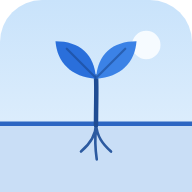
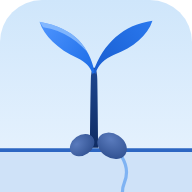
Neue Anfangspflanze: Keimling nach Vorlage
Der Baum beginnt jetzt als Keimling mit zwei Samenhälften am Boden,
dunklem Stängel, zwei Blättern mit Glanz und feiner hellblauer Wurzel.
Er wächst in den ersten Lerntagen etwas und wiegt sich im Wind; ab
Tag 4 verzweigt er sich zum jungen Baum. Beim ersten Start geht der
Same sichtbar auf. Auch das App-Symbol zeigt den neuen Keimling.

Claude-Session: https://claude.ai/code/session_012W7o2pM2ecKdrwSW7EVPoB

Changed region(s): [[0.0, 0.0938, 1.0, 1.0]]

diff --git a/js/tree.js b/js/tree.js
@@ -93,8 +93,25 @@ W.tree = (() => {
 
   // Geometrie von Krone und Wurzeln (ohne Zeichnen)
   const trunkWidth = G => 2.2 + 13 * clamp((G - 1) / 7, 0, 1);
+  // Keimling (die Anfangspflanze): zwei Samenhälften, Stängel, zwei Blätter, eine feine Wurzel.
+  // Gezeichnet in Bildkoordinaten der Vorlage (Stängelfuß bei 650/775), skaliert mit sc.
+  const SPROUT_MAX = 1.5;
+  function sproutGeom(G) {
+    const p = clamp((G - 0.3) / 0.25, 0, 1);                 // Aufgehen des Samens
+    const k = 0.85 + 0.15 * clamp((G - 0.55) / 0.45, 0, 1) + Math.max(0, G - 1) * 0.5;
+    return { p, e: ease(p), sc: 0.19 * k };
+  }
   function geometry(G, RG, T, droop) {
     const segs = [], tips = [], rsegs = [], box = { minY: GROUND - 40, minX: 200, maxX: 200, maxY: GROUND + 20, rootY: GROUND, treeY: GROUND };
+    if (G < SPROUT_MAX) {
+      const sp = sproutGeom(G);
+      box.treeY = GROUND - (775 - 375) * sp.sc * Math.max(0.25, sp.e);
+      box.minY = box.treeY - 8;
+      box.minX = 200 - 180 * sp.sc - 6; box.maxX = 200 + 190 * sp.sc + 6;
+      box.rootY = GROUND + (945 - 775) * sp.sc * Math.max(0.2, sp.p);
+      box.maxY = box.rootY;
+      return { segs, tips, rsegs, box, tw: 1.6, sprout: sp };
+    }
     const size = clamp(G / 8, 0, 1), tw = G >= 1 ? trunkWidth(G) : 1.6;
     if (G >= 1) branch(TREE, 200, GROUND, 0, 52 * (0.62 + 0.38 * size), tw, G, T, false, tips, segs, droop, box);
     const rs = 0.62 + 0.38 * clamp(RG / 7, 0, 1);
@@ -154,7 +171,7 @@ W.tree = (() => {
       const T = reduce || o.still ? 0 : time;
 
       // 1) Struktur berechnen
-      const { segs, tips, rsegs, box, tw } = geometry(G, RG, T, o.thirsty ? 0.18 : 0);
+      const { segs, tips, rsegs, box, tw, sprout } = geometry(G, RG, T, o.thirsty ? 0.18 : 0);
       const size = clamp(G / 8, 0, 1);
 
       // 2) Kamera: Baum und Wurzeln passen immer hinein
@@ -226,6 +243,7 @@ W.tree = (() => {
         ctx.beginPath(); ctx.moveTo(s.x, s.y); ctx.quadraticCurveTo(s.cx, s.cy, s.x2, s.y2); ctx.stroke();
       });
       ctx.globalAlpha = 1;
+      if (sprout) sproutRoot(sprout);
       if (rsegs.length) { // Wurzelansatz: Stamm geht nahtlos in die Wurzeln über
         ctx.fillStyle = C.root;
         ctx.beginPath(); ctx.ellipse(200, GROUND + tw * 0.25, tw * 0.75, tw * 0.55, 0, 0, 7); ctx.fill();
@@ -235,8 +253,8 @@ W.tree = (() => {
       ctx.strokeStyle = C.line; ctx.lineWidth = 4.5 * Math.max(0.6, u * 0.9);
       ctx.beginPath(); ctx.moveTo(v.x - 10, GROUND); ctx.lineTo(v.x + v.w + 10, GROUND); ctx.stroke();
 
-      // 8) Same oder Baum
-      if (G < 1) seedling(G);
+      // 8) Keimling oder Baum
+      if (sprout) sproutPlant(sprout, T);
       else {
         const leafPal = o.thirsty ? C.leafDry : C.leaf, puffPal = o.thirsty ? C.puffDry : C.puff;
         if (G >= 2) tips.forEach(tp => puffs(tp, puffPal, clamp((G - 2) / 1.2, 0, 1)));
@@ -292,17 +310,77 @@ W.tree = (() => {
       ctx.globalAlpha = 1;
     }
 
-    function seedling(G) {
-      ctx.save(); ctx.translate(200, GROUND); ctx.scale(1.6, 1.6); ctx.translate(-200, -GROUND);
-      ctx.fillStyle = '#7fb0ea'; ctx.strokeStyle = C.vein; ctx.lineWidth = 1.2;
-      ctx.beginPath(); ctx.ellipse(200, GROUND + 9, 7, 5, -0.4, 0, 7); ctx.fill(); ctx.stroke();
-      if (G > 0.5) {
-        const h = 2 + (G - 0.5) * 34;
-        ctx.strokeStyle = C.trunk[0]; ctx.lineWidth = 2;
-        ctx.beginPath(); ctx.moveTo(200, GROUND + 4); ctx.quadraticCurveTo(201, GROUND - h / 2, 200, GROUND - h); ctx.stroke();
-        leaf(200, GROUND - h, -0.9, 5 + h * 0.35, C.leaf[1]);
-        leaf(200, GROUND - h, 0.9, 5 + h * 0.35, C.leaf[0]);
-      }
+    // ---- Keimling nach Vorlage ----
+    function sproutSpace(sp) {
+      ctx.save();
+      ctx.translate(200, GROUND); ctx.scale(sp.sc, sp.sc); ctx.translate(-650, -775);
+    }
+    // feine hellblaue Wurzel aus der rechten Samenhälfte
+    function sproutRoot(sp) {
+      if (sp.p <= 0) return;
+      sproutSpace(sp);
+      ctx.translate(736, 798); ctx.scale(1, sp.p); ctx.translate(-736, -798);
+      ctx.lineCap = 'round';
+      ctx.strokeStyle = o.thirsty ? '#a9bdd4' : '#7fb3f3';
+      ctx.lineWidth = 8;
+      ctx.beginPath(); ctx.moveTo(736, 796);
+      ctx.bezierCurveTo(754, 826, 754, 852, 744, 876);
+      ctx.bezierCurveTo(734, 900, 738, 924, 748, 944); ctx.stroke();
+      ctx.restore();
+    }
+    function sproutPlant(sp, T) {
+      const dry = o.thirsty;
+      sproutSpace(sp);
+      // Stängel und Blätter wachsen aus den Samenhälften heraus und wiegen sich leicht im Wind
+      ctx.save();
+      ctx.translate(650, 722); ctx.scale(sp.e, sp.e); ctx.rotate(Math.sin(T * 1.1) * 0.025); ctx.translate(-650, -722);
+      // Stängel
+      const sg = ctx.createLinearGradient(0, 520, 0, 722);
+      sg.addColorStop(0, dry ? '#4d6585' : '#1d4690'); sg.addColorStop(1, dry ? '#3d536f' : '#0f2c63');
+      ctx.fillStyle = sg;
+      ctx.beginPath();
+      ctx.moveTo(637, 768); ctx.bezierCurveTo(638, 660, 639, 600, 640, 556);
+      ctx.bezierCurveTo(640, 540, 643, 528, 646, 520);
+      ctx.lineTo(654, 520);
+      ctx.bezierCurveTo(657, 528, 660, 540, 660, 556);
+      ctx.bezierCurveTo(661, 600, 662, 660, 663, 768); ctx.closePath(); ctx.fill();
+      // Blätter (um den Blattansatz gedreht, damit sie sich bewegen)
+      ctx.save();
+      ctx.translate(650, 520); ctx.rotate(Math.sin(T * 1.6 + 1) * 0.04); ctx.translate(-650, -520);
+      // linkes Blatt
+      const lg = ctx.createLinearGradient(480, 380, 650, 512);
+      lg.addColorStop(0, dry ? '#93a8c3' : '#4f95ff'); lg.addColorStop(1, dry ? '#7088a8' : '#1f6fe8');
+      ctx.fillStyle = lg;
+      ctx.beginPath();
+      ctx.moveTo(652, 532); ctx.bezierCurveTo(634, 456, 594, 398, 481, 377);
+      ctx.bezierCurveTo(494, 420, 538, 462, 598, 490); ctx.bezierCurveTo(624, 503, 638, 516, 646, 540);
+      ctx.closePath(); ctx.fill();
+      // heller Glanzstreifen oben am linken Blatt (nur innerhalb des Blattes)
+      ctx.save(); ctx.clip();
+      ctx.fillStyle = dry ? 'rgba(220,230,242,.45)' : 'rgba(150,196,255,.75)';
+      ctx.beginPath();
+      ctx.moveTo(481, 377); ctx.bezierCurveTo(560, 383, 610, 420, 642, 486);
+      ctx.bezierCurveTo(604, 438, 556, 404, 492, 394); ctx.closePath(); ctx.fill();
+      ctx.restore();
+      // rechtes Blatt
+      const rg = ctx.createLinearGradient(830, 374, 652, 512);
+      rg.addColorStop(0, dry ? '#869cb9' : '#2a78ee'); rg.addColorStop(1, dry ? '#667f9f' : '#1a5fd2');
+      ctx.fillStyle = rg;
+      ctx.beginPath();
+      ctx.moveTo(648, 532); ctx.bezierCurveTo(678, 444, 742, 386, 831, 374);
+      ctx.bezierCurveTo(816, 420, 772, 456, 712, 480); ctx.bezierCurveTo(682, 494, 662, 510, 654, 540);
+      ctx.closePath(); ctx.fill();
+      ctx.restore();
+      ctx.restore();
+      // zwei Samenhälften am Boden
+      const seed = (cx, cy, rx, ry, rot) => {
+        const g = ctx.createRadialGradient(cx - rx * 0.35, cy - ry * 0.45, 2, cx, cy, rx * 1.1);
+        g.addColorStop(0, dry ? '#7b8fa9' : '#5a7bbd'); g.addColorStop(1, dry ? '#4f6380' : '#2f4f8f');
+        ctx.fillStyle = g;
+        ctx.beginPath(); ctx.ellipse(cx, cy, rx, ry, rot, 0, 7); ctx.fill();
+      };
+      seed(613, 760, 41, 31, -0.62);
+      seed(706, 762, 49, 37, 0.58);
       ctx.restore();
     }
 

diff --git a/js/ui.js b/js/ui.js
@@ -867,10 +867,10 @@ W.ui = (() => {
           <button class="seed-btn" aria-label="Samen pflanzen"><canvas class="ob-tree small"></canvas></button>
           <p class="ob-sub small">Level 1: <b>${esc(first.ref)}</b></p>
         </div>`;
-      const ctl = W.tree.mount($('.ob-tree', el), { g: 0.4, rg: 0.3 });
+      const ctl = W.tree.mount($('.ob-tree', el), { g: 0.3, rg: 0.3 });
       $('.seed-btn', el).addEventListener('click', () => {
         W.sound.play('seed');
-        ctl.animateGrowth(0.4, 0.85, 0.3, 0.6, 1200).then(() => {
+        ctl.animateGrowth(0.3, 0.55, 0.3, 0.5, 1400).then(() => {
           ctl.destroy();
           st.set({ onboarded: true, name, dailyGoal: goal, created: st.today() });
           st.setLevelVerse(first.id);

diff --git a/js/store.js b/js/store.js
@@ -165,7 +165,7 @@ W.store = (() => {
   const rootGrowth = (days = totalDays(), streak = s.streak) =>
     days <= 0 ? 0.4 : Math.min(7.6, 1 + 6.6 * (1 - Math.exp(-(days * 0.55 + streak * 0.9) / 26)));
   const TREE_STAGES = [
-    [0, 'Ein kleiner Same'], [1, 'Ein neuer Anfang'], [3, 'Erste Blätter'], [7, 'Ein junger Trieb'], [14, 'Ein junger Baum'],
+    [0, 'Frisch gepflanzt'], [1, 'Ein neuer Anfang'], [3, 'Erste Blätter'], [7, 'Ein junger Trieb'], [14, 'Ein junger Baum'],
     [30, 'Ein kräftiger Baum'], [60, 'Fest verwurzelt'], [100, 'Ein mächtiger Baum'], [200, 'Wie eine Zeder im Libanon']
   ];
   function treeStage(days = totalDays()) {
